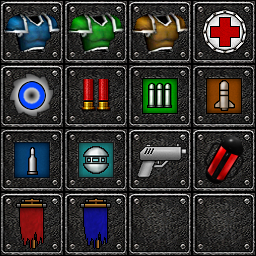
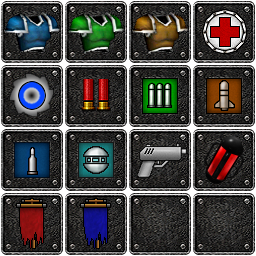
added transparency to hud items
git-svn-id: svn://svn.code.sf.net/p/sauerbraten/code@610 07af1644-1164-4067-b897-63bf4dc9b748

Changed region(s): [[0.0, 0.0, 1.0, 1.0]]

diff --git a/src/fpsgame/fps.cpp b/src/fpsgame/fps.cpp
@@ -647,8 +647,6 @@ namespace game
 
         glPopMatrix();
 
-        glDisable(GL_BLEND);
-
         drawicon(HICON_HEALTH, 20, 1650);
         if(d->state!=CS_DEAD)
         {
@@ -656,8 +654,6 @@ namespace game
             drawicon(HICON_FIST+d->gunselect, 1220, 1650);
             if(d->quadmillis) drawicon(HICON_QUAD, 1820, 1650);
         }
-
-        glEnable(GL_BLEND);
     }
 
     void gameplayhud(int w, int h)
@@ -688,8 +684,8 @@ namespace game
         glPopMatrix();
     }
 
-    IVARP(teamcrosshair, 0, 1, 1);
-    IVARP(hitcrosshair, 0, 425, 1000);
+    VARP(teamcrosshair, 0, 1, 1);
+    VARP(hitcrosshair, 0, 425, 1000);
 
     const char *defaultcrosshair(int index)
     {
@@ -709,8 +705,8 @@ namespace game
         if(d->state!=CS_ALIVE) return 0;
 
         int crosshair = 0;
-        if(lasthit && lastmillis - lasthit < hitcrosshair()) crosshair = 2;
-        else if(teamcrosshair())
+        if(lasthit && lastmillis - lasthit < hitcrosshair) crosshair = 2;
+        else if(teamcrosshair)
         {
             dynent *o = intersectclosest(d->o, worldpos, d);
             if(o && o->type==ENT_PLAYER && isteam(((fpsent *)o)->team, d->team))
